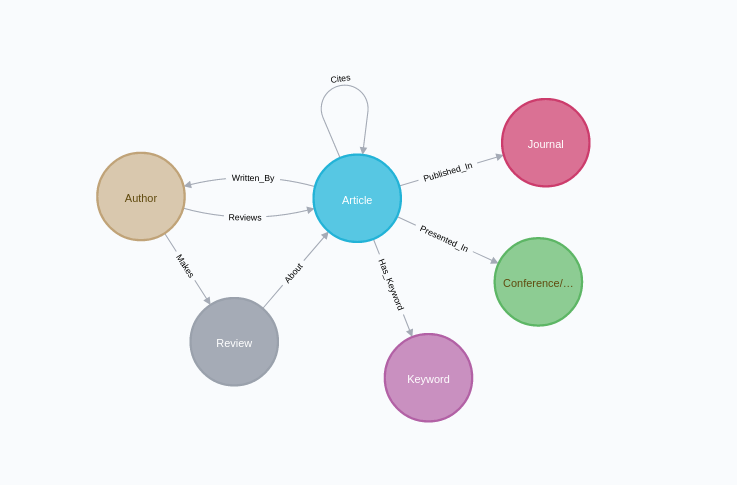
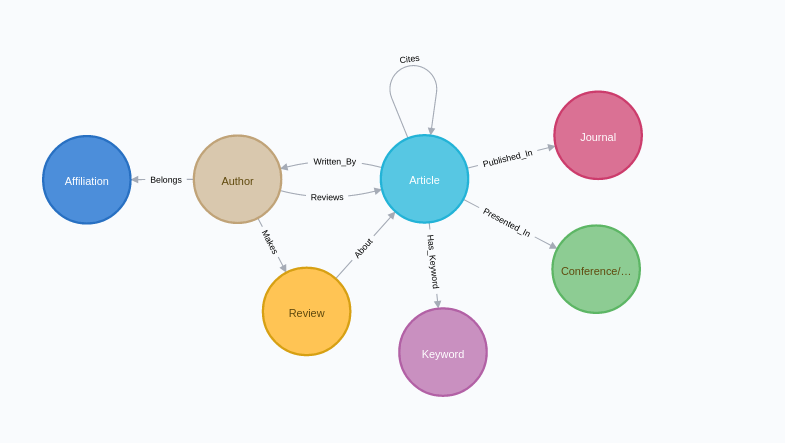
Evolved graph. Added affiliation node

diff --git a/README.md b/README.md
@@ -36,7 +36,9 @@ The data for one of the relationships had to be updated. For it, the cql queries
 
 In order to evolve the graph with the requirements provided, a new node "Review" was created, containing two properties (content and decision). After it, two relationships were created; "Creates" and "About".
 
-The code developed in order to create the new csvs is available in `generate_csvs_evolving_graph.ipynb`
+Besides, in order to model the affiliation of the authors, a new node "Affiliation" was created, as well as the relationship between the Affiliations and the Authors.
+
+The code developed in order to create the new csvs is available in `generate_csvs_evolving_graph.ipynb` and `generate_affiliation_and_belongs.ipynb`
 
 The resulting schema after evolving it can be seen in the image below.
 ![Evolved Schema](schema_evolved.png)
